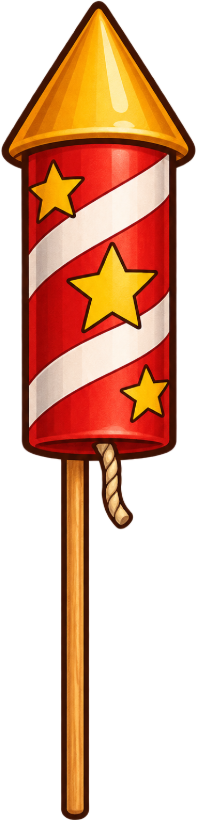
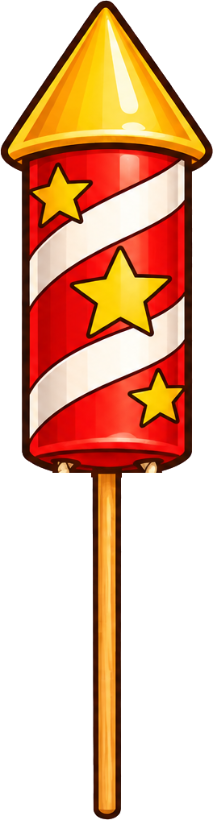
Uhr lesen: Rakete mit langer gezeichneter Zündschnur, Zahlen aussen, Stundenzeiger in Viertelstunden, Mustertext 00:00, führende Null, dezente Schritte, 1 Kind ohne Wechselzeit; Menü: Spiel-Einstellungen und Spiel wechseln (auch Mathe-Fussball)

diff --git a/spiele/uhr-lesen/spiel.js b/spiele/uhr-lesen/spiel.js
@@ -37,7 +37,7 @@ const STANDARD = {
   arten: { lesen: true, stellen: true },
   zeiten: { ganz: true, halb: true, viertel: true },
   blatt: 'alle',
-  nachmittag: false,
+  nachmittag: true,
   schritte: '6',
   minuten: '',
   wechselSek: '3',
@@ -47,7 +47,8 @@ const STANDARD = {
     { name: 'Erdmännchen', tier: 'erdmaennchen', farbe: 'blau' }
   ]
 };
-const SPEICHER_EINST = 'uhrlesen.einstellungen.v1';
+// v2: Nachmittagszeiten neu standardmässig ein – ältere gespeicherte Einstellungen werden einmalig verworfen
+const SPEICHER_EINST = 'uhrlesen.einstellungen.v2';
 const SPERRE_MS = 1500;      // Sperre nach falscher Antwort
 const LOESUNG_MS = 1300;     // Lösung zeigen nach richtiger Antwort
 const START_UHR = 15;        // die Uhr zum Stellen steht am Anfang auf 12:15
@@ -227,6 +228,8 @@ function zeigeEinstellungen() {
   $('e-schritte').value = E.schritte;
   $('e-minuten').value = E.minuten;
   $('e-wechsel').value = E.wechselSek;
+  // Wechselzeit braucht es nur, wenn zwei Kinder abwechselnd an die Tafel kommen
+  $('wechsel-zeile').classList.toggle('versteckt', E.spieler === 1);
   $('e-ton').checked = E.ton;
   $('fehler').textContent = '';
   zeigeSeite('einstellungen');
@@ -247,7 +250,7 @@ function pruefeEinstellungen() {
   if (!E.zeiten.ganz && !E.zeiten.halb && !E.zeiten.viertel) return 'Bitte mindestens eine Art Uhrzeit einschalten.';
   if (ganzzahlIn(E.schritte, 3, 10) === null) return 'Richtige bis zum Zünden: bitte eine Zahl von 3 bis 10.';
   if (E.minuten !== '' && ganzzahlIn(E.minuten, 1, 90) === null) return 'Spielzeit: bitte 1 bis 90 Minuten oder leer lassen.';
-  if (ganzzahlIn(E.wechselSek, 0, 30) === null) return 'Wechselzeit: bitte 0 bis 30 Sekunden.';
+  if (E.spieler === 2 && ganzzahlIn(E.wechselSek, 0, 30) === null) return 'Wechselzeit: bitte 0 bis 30 Sekunden.';
   return null;
 }
 
@@ -294,9 +297,17 @@ let letzterFrame = 0, letzterTick = -1;
 
 /* Bühne: 1600 × 900. Szene oben 450 hoch, unten Eingaben und Aufgabe. */
 const BODEN_Y = 420;                 // hier stehen die Tiere
-const START_X = 115, END_X = 555;    // Weg des linken Tiers (rechtes gespiegelt)
-const RAKETE = { x: 800, unten: 438, hoehe: 330 };
-const SCHNUR_ENDE_X = 655;           // Ende der Zündschnur links (rechts gespiegelt)
+const START_X = 115, END_X = 500;    // Weg des linken Tiers (rechtes gespiegelt)
+/* Rakete mit zwei langen Zündschnüren (bilder/rakete-stehend.png und bilder/zuendschnur.png,
+   beide gleich gross und genau übereinander). Die Pfade folgen der Mitte der gezeichneten Schnüre
+   (automatisch aus dem Bild gemessen), vom äusseren Ende bis unter den Raketenkörper. */
+const RAKETEN_BILD = { links: 575, oben: 145, breite: 450, hoehe: 300 };
+const FLUG_START = { x: 799.6, y: 295.2, hoehe: 298 };   // Mitte und Höhe der Rakete allein (bilder/rakete.png)
+const SCHNUR_ENDE_X = 577;           // äusseres Ende der Zündschnur links (rechts gespiegelt)
+const SCHNUR_PFADE = [
+  'M 576.5 438.3 L 578.5 438 L 580.9 437.4 L 583.5 437.1 L 586.1 436.8 L 589.4 436.8 L 592.3 437.1 L 595.2 437.4 L 598.1 437.7 L 601.4 438 L 604 438.3 L 607.2 438.6 L 610.2 438.3 L 613.1 438.3 L 616 438 L 618.9 437.7 L 621.9 437.4 L 624.5 436.8 L 627.1 436.5 L 629.8 435.9 L 632.1 435.4 L 634.8 434.8 L 637.4 434.8 L 639.7 434.2 L 642.4 433.9 L 645.3 433.6 L 647.7 433.3 L 650.6 433 L 653.5 433 L 656.2 432.7 L 659.4 433 L 662 433 L 665.2 433.3 L 668.5 433.9 L 671.4 433.9 L 674.6 434.8 L 677.8 435.1 L 680.8 435.7 L 684 436.2 L 686.6 437.1 L 689.6 437.7 L 692.5 438 L 695.1 438.6 L 697.8 438.6 L 700.7 438.9 L 703.3 438.9 L 706.3 439.2 L 709.5 438.9 L 712.4 438.6 L 715.6 438.3 L 718.6 437.7 L 721.8 437.1 L 724.7 436.2 L 727.6 435.4 L 730.3 433.9 L 732.3 432.7 L 734.1 431.8 L 736.1 431 L 737.9 429.8 L 739.9 428.6 L 741.7 427.5 L 743.2 426.3 L 744.9 424.8 L 746.7 423.6 L 747.9 422.2 L 749.3 420.7 L 751.1 419.3 L 752.2 417.8 L 753.7 416 L 754.9 414.6 L 756.3 412.8 L 757.5 411 L 758.7 409.6 L 759.9 407.8 L 761 406.1 L 762.2 404 L 763.1 402 L 764.3 400.2 L 765.1 398.4 L 766 396.4 L 767.2 394.3 L 768.1 392.6 L 768.9 390.2 L 769.8 388.2 L 770.7 386.1 L 771.3 383.8 L 772.2 381.8 L 772.8 379.7 L 773.3 377.1 L 774.2 375.3 L 774.8 373 L 775.4 370.3 L 776.3 368.3 L 776.6 365.9 L 777.1 363.6 L 777.7 361.2 L 778.3 358.6 L 778.6 356 L 779.2 353.9 L 779.5 351.3 L 780.1 348.6 L 780.4 346.3 L 780.7 343.7 L 781.3 341 L 781.5 338.4 L 781.8 335.8 L 782.1 333.1 L 782.1 330.5 L 782.4 327.8 L 782.7 325.2 L 783 322.3 L 784.2 320.8 L 785.6 319.3 L 788 318.8 L 790.9 318.8 L 793.3 318.8',
+  'M 1023.2 437.7 L 1021.2 437.7 L 1018.8 437.4 L 1015.9 437.1 L 1013.3 436.5 L 1010.4 436.8 L 1007.1 437.1 L 1004.5 437.1 L 1001.3 437.7 L 998.3 437.7 L 995.4 438.3 L 992.5 438.6 L 989.6 438.3 L 986.6 438.6 L 984 438.3 L 980.8 438 L 977.8 437.7 L 975.2 436.8 L 972.3 436.8 L 969.6 435.9 L 967 435.7 L 964.4 435.1 L 961.7 434.5 L 959.4 434.2 L 956.7 433.9 L 953.8 433.6 L 951.5 433.3 L 948.5 433 L 945.9 433 L 943 432.7 L 939.7 433 L 936.8 433.3 L 933.9 433.3 L 930.7 433.6 L 927.7 434.2 L 924.5 434.5 L 921.6 435.1 L 918.1 435.9 L 915.1 436.2 L 912.2 437.1 L 909.6 437.7 L 906.6 438.3 L 904 438.6 L 901.4 438.9 L 898.4 438.9 L 895.5 438.9 L 892.9 439.2 L 889.6 438.6 L 886.7 438.9 L 883.8 438.3 L 880.6 437.7 L 877.3 437.4 L 874.4 436.2 L 871.5 435.4 L 868.8 434.2 L 867.1 432.7 L 865 431.8 L 863 431 L 861.2 429.5 L 859.5 428.6 L 857.4 427.5 L 856 426 L 854.5 424.8 L 852.7 423.6 L 851.3 422.2 L 849.8 420.4 L 848.3 419.3 L 846.9 417.5 L 845.7 416 L 844.2 414.3 L 842.8 412.8 L 841.6 411 L 840.4 409.3 L 839.3 407.5 L 838.1 405.8 L 837.2 404 L 836 402.3 L 834.9 400.2 L 834 398.4 L 832.8 396.4 L 832.2 394.3 L 831.1 392.3 L 830.2 390.5 L 829.3 388.2 L 828.4 386.1 L 827.5 384.1 L 827 381.8 L 826.1 379.7 L 825.5 377.4 L 824.6 375.3 L 824.3 373 L 823.4 370.6 L 822.9 368.6 L 822.6 365.9 L 822 363.6 L 821.4 361.2 L 821.1 358.6 L 820.5 356.3 L 819.9 353.9 L 819.6 351.3 L 819 348.6 L 818.8 346.3 L 818.5 343.4 L 817.9 341 L 817.9 338.4 L 817.3 335.8 L 817.3 333.1 L 817 330.2 L 816.7 327.6 L 817 324.6 L 816.1 322.3 L 815.2 320.5 L 813.5 319.3 L 811.1 318.8 L 808.2 318.8 L 805.9 318.8'
+];
 const tierX = (i, k) => {
   const x = START_X + (END_X - START_X) * k / S.ziel;
   return i === 0 ? x : 1600 - x;
@@ -327,7 +338,7 @@ function starteSpiel() {
     uhr: [START_UHR, START_UHR],
     mitZeit: E.minuten !== '',
     restMs: E.minuten !== '' ? Number(E.minuten) * 60000 : 0,
-    wechselMs: Number(E.wechselSek) * 1000,
+    wechselMs: E.spieler === 1 ? 0 : Number(E.wechselSek) * 1000,   // 1 Kind: kein Countdown
     phase: 'spiel',      // spiel | loesung | wechsel | rakete | ende
     phaseRestMs: 0, weiter: null,
     rakete: null,
@@ -347,43 +358,37 @@ function starteSpiel() {
 const aktiv = i => i < S.n;
 
 /* ---------- Spielfeld aufbauen ---------- */
-function schnurPfad(i) {
-  // Von der Zündschnur am Ende (beim Tier) bis zur kleinen Schnur unten an der Rakete
-  const s = i === 0 ? 1 : -1, x = v => 800 - s * (800 - v);
-  const ende = x(SCHNUR_ENDE_X), y = BODEN_Y + 2;
-  return `M ${ende} ${y} C ${x(670)} ${y - 14}, ${x(690)} ${y + 12}, ${x(715)} ${y + 2}`
-    + ` S ${x(752)} ${y - 6}, ${x(770)} ${y - 4} C ${x(788)} ${y - 6}, ${x(795)} ${y - 40}, ${x(797)} ${RAKETE.unten - RAKETE.hoehe * 0.36}`;
-}
+function schnurPfad(i) { return SCHNUR_PFADE[i]; }
 function baueSpielfeld() {
   const b = $('buehne');
   b.classList.toggle('allein', S.n === 1);
   // Rakete
   const r = $('rakete');
-  r.style.height = RAKETE.hoehe + 'px';
-  r.style.top = (RAKETE.unten - RAKETE.hoehe) + 'px';
+  [r, $('schnur-bild')].forEach(el => {
+    el.style.left = RAKETEN_BILD.links + 'px'; el.style.top = RAKETEN_BILD.oben + 'px';
+    el.style.width = RAKETEN_BILD.breite + 'px'; el.style.height = RAKETEN_BILD.hoehe + 'px';
+  });
   r.classList.remove('weg');
 
   $('schritte').innerHTML = '';
   [0, 1].forEach(i => {
     const da = aktiv(i);
-    ['figur-', 'panel-', 'tafel-', 'schnur-', 'brand-', 'funke-'].forEach(p => $(p + i).classList.toggle('versteckt', !da || p === 'funke-'));
+    ['figur-', 'panel-', 'tafel-', 'brand-', 'funke-'].forEach(p => $(p + i).classList.toggle('versteckt', !da || p === 'funke-'));
     if (!da) return;
     const team = S.teams[i];
     b.style.setProperty(`--farbe-${i}`, farbeVon(team.farbe).wert);
     // Zündschnur
     const d = schnurPfad(i);
-    $(`schnur-${i}`).setAttribute('d', d);
     const brand = $(`brand-${i}`);
     brand.setAttribute('d', d);
     const L = brand.getTotalLength();
     brand.style.strokeDasharray = `${L} ${L}`;
     brand.style.strokeDashoffset = L;
-    // Schritte auf der Wiese: 1 … ziel
+    // Schritte auf der Wiese: dezente Punkte ohne Zahlen
     for (let k = 1; k <= S.ziel; k++) {
       const p = document.createElement('div');
       p.className = 'schritt';
       p.id = `schritt-${i}-${k}`;
-      p.textContent = k;
       p.style.left = tierX(i, k) + 'px';
       setzeFarbVariablen(p, team.farbe);
       $('schritte').appendChild(p);
@@ -451,7 +456,7 @@ function naechsteAufgabe() {
   if (lesen) {
     stelleUhr($('uhr-gross').querySelector('svg'), minutenVon(a.h, a.m));
   } else {
-    $('wecker-anzeige').innerHTML = segmentSvg(`${a.anzeigeH}:${String(a.m).padStart(2, '0')}`);
+    $('wecker-anzeige').innerHTML = segmentSvg(`${String(a.anzeigeH).padStart(2, '0')}:${String(a.m).padStart(2, '0')}`);
   }
   [0, 1].forEach(i => {
     if (!aktiv(i)) return;
@@ -507,7 +512,7 @@ function richtig(i) {
   blinke(p, 'richtig');
   if (a.art === 'lesen') {
     const l = $('loesung-text');
-    l.textContent = `${a.h}:${String(a.m).padStart(2, '0')}`;
+    l.textContent = `${String(a.h).padStart(2, '0')}:${String(a.m).padStart(2, '0')}`;
     l.classList.remove('versteckt');
   } else {
     p.classList.add('geloest');
@@ -575,7 +580,7 @@ function starteRakete(zuender, punkt) {
   zuender.forEach(i => {
     const fig = $(`figur-${i}`);
     fig.classList.add('geht');
-    fig.style.left = (i === 0 ? SCHNUR_ENDE_X - 85 : 1600 - SCHNUR_ENDE_X + 85) + 'px';
+    fig.style.left = (i === 0 ? SCHNUR_ENDE_X - 62 : 1600 - SCHNUR_ENDE_X + 62) + 'px';
     setTimeout(() => { fig.classList.remove('geht'); fig.classList.add('zuendet'); }, 450);
   });
   zeichneStand();
@@ -583,7 +588,7 @@ function starteRakete(zuender, punkt) {
 
 /* Flugbahn: hoch, Looping rechts, Looping links, dann Knall oben in der Mitte */
 const FLUG_PUNKTE = [
-  [800, 273], [800, 190], [835, 105], [960, 50], [1130, 75], [1250, 200], [1220, 350], [1070, 420],
+  [800, 295], [800, 190], [835, 105], [960, 50], [1130, 75], [1250, 200], [1220, 350], [1070, 420],
   [930, 360], [840, 250], [770, 160], [650, 85], [480, 70], [345, 170], [345, 330], [480, 420],
   [640, 380], [740, 300], [790, 250], [815, 215]
 ];
@@ -641,12 +646,12 @@ function raketeSchritt(dt) {
   if (r.ms >= R.start && r.ms < R.knall) {
     const t = (r.ms - R.start) / R.flug;
     const p = flugBahn(flugAnteil(t));
-    const groesse = 1 - 0.45 * t, hoehe = RAKETE.hoehe * groesse;
+    const groesse = 1 - 0.45 * t, hoehe = FLUG_START.hoehe * groesse;
     const el = $('flug-rakete');
     el.style.height = hoehe + 'px';
     el.style.transform = `translate(${p.x}px, ${p.y}px) translate(-50%, -50%) rotate(${(p.w * 180 / Math.PI + 90).toFixed(1)}deg)`;
     // Feuerschweif unten am Raketenkörper
-    const hx = p.x - Math.cos(p.w) * hoehe * 0.14, hy = p.y - Math.sin(p.w) * hoehe * 0.14;
+    const hx = p.x - Math.cos(p.w) * hoehe * 0.09, hy = p.y - Math.sin(p.w) * hoehe * 0.09;
     for (let k = 0; k < 5; k++) funken.push(neuerFunke(hx, hy, 'schweif', p.w));
     if (Math.random() < 0.5) funken.push(neuerFunke(hx, hy, 'rauch', p.w));
   }
@@ -787,8 +792,9 @@ function zeichneFunken(dt) {
 /* =========================================================
    Uhr stellen: Zeiger mit dem Finger ziehen
    - Minutenzeiger rastet in Viertelstunden ein (:00, :15, :30, :45)
-   - Stundenzeiger rastet bei den ganzen Stunden ein
-   - Wie bei einer echten Uhr dreht der Stundenzeiger mit
+   - Stundenzeiger rastet ebenfalls in Viertelstunden ein: er steht also wie bei einer
+     echten Uhr je nach Minuten zwischen zwei Zahlen, und der Minutenzeiger dreht mit
+   - Umgekehrt dreht beim Minutenzeiger der Stundenzeiger langsam mit
    ========================================================= */
 function winkelDiff(a, b) { const d = Math.abs(mod(a - b, 360)); return Math.min(d, 360 - d); }
 function verbindeZiehen(i, svg) {
@@ -807,7 +813,7 @@ function verbindeZiehen(i, svg) {
     const dm = winkelDiff(winkel, w.minute), dh = winkelDiff(winkel, w.stunde);
     // Welcher Zeiger? Der näher liegende; liegen beide nah beieinander, entscheidet der Abstand zur Mitte
     let zeiger = dm <= dh ? 'minute' : 'stunde';
-    if (Math.abs(dm - dh) < 25) zeiger = r > 56 ? 'minute' : 'stunde';
+    if (Math.abs(dm - dh) < 25) zeiger = r > 50 ? 'minute' : 'stunde';
     S.ziehen = { i, zeiger, roh: S.uhr[i], minute: mod(S.uhr[i], 60), id: ev.pointerId };
     try { svg.setPointerCapture(ev.pointerId); } catch (e) { /* egal */ }
     svg.classList.add('zieht', 'zieht-' + zeiger);
@@ -825,7 +831,7 @@ function verbindeZiehen(i, svg) {
       let d = winkel / 30 - mod(z.roh / 60, 12);
       d = mod(d + 6, 12) - 6;
       z.roh += d * 60;
-      neu = mod(Math.round((z.roh - z.minute) / 60) * 60 + z.minute, 720);
+      neu = mod(Math.round(z.roh / 15) * 15, 720);
     }
     if (neu !== S.uhr[i]) { S.uhr[i] = neu; TON.klick(); stelleUhr(svg, neu); }
   };
@@ -877,7 +883,9 @@ function zeichneSchritte(gehen) {
     if (!aktiv(i)) return;
     const k = S.schritte[i], fig = $(`figur-${i}`);
     fig.classList.remove('zuendet');
-    if (gehen) { fig.classList.remove('geht'); void fig.offsetWidth; fig.classList.add('geht'); clearTimeout(fig._t); fig._t = setTimeout(() => fig.classList.remove('geht'), 900); }
+    // Nur das Tier geht, dessen Schritt sich geändert hat – das andere bleibt still stehen
+    if (gehen && fig._k !== k) { fig.classList.remove('geht'); void fig.offsetWidth; fig.classList.add('geht'); clearTimeout(fig._t); fig._t = setTimeout(() => fig.classList.remove('geht'), 900); }
+    fig._k = k;
     fig.style.left = tierX(i, k) + 'px';
     fig.querySelector('.zaehler').textContent = `${k} / ${S.ziel}`;
     for (let n = 1; n <= S.ziel; n++) $(`schritt-${i}-${n}`).classList.toggle('erreicht', n <= k);

diff --git a/spiele/uhr-lesen/style.css b/spiele/uhr-lesen/style.css
@@ -89,8 +89,8 @@ body { background: #eef3fb; }
 
 /* ---------- Analoge Uhr (SVG) ---------- */
 .uhr { display: block; overflow: visible; }
-.uhr-zahl { font-family: var(--schrift); font-size: 21px; font-weight: 700; fill: #111; text-anchor: middle; dominant-baseline: central; }
-.uhr-zahl.gross { font-size: 25px; }
+.uhr-zahl { font-family: var(--schrift); font-size: 19px; font-weight: 700; fill: #111; text-anchor: middle; dominant-baseline: central; }
+.uhr-zahl.gross { font-size: 22px; }
 .uhr .zeiger { transition: transform .15s; }
 
 /* ---------- Digitalanzeige ---------- */
@@ -109,9 +109,10 @@ body { background: #eef3fb; }
   background: #2a2f6b url("bilder/hintergrund.jpg") 50% 75% / cover no-repeat;
 }
 #schnur { position: absolute; left: 0; top: 0; width: 1600px; height: 450px; z-index: 2; pointer-events: none; }
-.schnur { fill: none; stroke: #e2bf86; stroke-width: 7; stroke-linecap: round; stroke-dasharray: 10 2; filter: drop-shadow(0 0 1.2px #3e2723) drop-shadow(0 0 1px #3e2723); }
-.brand { fill: none; stroke: #262222; stroke-width: 8; stroke-linecap: round; }
-#rakete { position: absolute; left: 800px; transform: translateX(-50%); z-index: 3; transition: opacity .6s; filter: drop-shadow(0 6px 6px rgba(0,0,0,.35)); }
+.brand { fill: none; stroke: #2a2220; stroke-width: 7.5; stroke-linecap: round; stroke-linejoin: round; opacity: .92; }
+#rakete, #schnur-bild { position: absolute; z-index: 3; pointer-events: none; }
+#rakete { transition: opacity .6s; filter: drop-shadow(0 6px 6px rgba(0,0,0,.35)); }
+#schnur-bild { z-index: 1; filter: drop-shadow(0 2px 2px rgba(0,0,0,.3)); }
 #rakete.weg { opacity: 0; transition: none; }
 .funke {
   position: absolute; width: 34px; height: 34px; margin: -17px 0 0 -17px; z-index: 4; border-radius: 50%;
@@ -122,12 +123,11 @@ body { background: #eef3fb; }
 
 /* Schritte auf der Wiese */
 .schritt {
-  position: absolute; top: 424px; width: 40px; height: 22px; margin-left: -20px; z-index: 1;
-  border-radius: 50%; background: rgba(255,255,255,.75); border: 3px solid rgba(40,40,60,.55);
-  font-size: 15px; font-weight: 900; line-height: 16px; text-align: center; color: #37474f;
-  transition: background .3s, transform .3s;
+  position: absolute; top: 431px; width: 24px; height: 10px; margin-left: -12px; z-index: 1;
+  border-radius: 50%; background: rgba(255,255,255,.4); box-shadow: 0 0 0 1.5px rgba(40,50,40,.18);
+  transition: background .3s;
 }
-.schritt.erreicht { background: var(--farbe); color: var(--text); border-color: var(--farbe-dunkel); transform: scale(1.12); }
+.schritt.erreicht { background: var(--farbe); opacity: .65; box-shadow: none; }
 
 /* Tiere mit Fackel */
 .figur {
@@ -187,6 +187,7 @@ body { background: #eef3fb; }
   font-size: 46px; font-weight: 900; text-align: center; line-height: 58px; color: #1d2733; letter-spacing: 1px;
   --filz-farbe: var(--farbe); --filz-dicke: 3px;
 }
+.eingabe:empty::before { content: "00:00"; color: #d5dbe0; }
 .meldung { position: absolute; left: 16px; right: 16px; top: 74px; z-index: 2; text-align: center; font-size: 26px; font-weight: 900; color: #fff; background: var(--blau); border-radius: var(--wackel-klein); padding: 4px; opacity: 0; pointer-events: none; }
 .meldung.zeigen { animation: meldung 1.4s; }
 @keyframes meldung { 0%, 80% { opacity: 1; } 100% { opacity: 0; } }

diff --git a/spiele/uhr-lesen/index.html b/spiele/uhr-lesen/index.html
@@ -75,9 +75,9 @@
         <div class="abschnitt">
           <div class="abschnitt-titel">Uhrzeiten</div>
           <div class="knopf-raster arten-raster">
-            <button class="wahl filz" data-zeit="ganz">Ganze Stunden <small>(3:00)</small></button>
-            <button class="wahl filz" data-zeit="halb">Halbe Stunden <small>(3:30)</small></button>
-            <button class="wahl filz" data-zeit="viertel">Viertelstunden <small>(3:15, 3:45)</small></button>
+            <button class="wahl filz" data-zeit="ganz">Ganze Stunden <small>(03:00)</small></button>
+            <button class="wahl filz" data-zeit="halb">Halbe Stunden <small>(03:30)</small></button>
+            <button class="wahl filz" data-zeit="viertel">Viertelstunden <small>(03:15, 03:45)</small></button>
           </div>
         </div>
         <div class="abschnitt">
@@ -107,10 +107,12 @@
 
       <div class="karte filz">
         <h2>Ablauf</h2>
+        <div id="wechsel-zeile">
         <label class="feld-zeile">Wechselzeit (Sekunden)
           <span class="zahl-feld filz"><input type="text" id="e-wechsel" inputmode="numeric" maxlength="2"></span>
         </label>
         <p class="hinweis">Countdown zwischen den Aufgaben. 0 = sofort weiter.</p>
+        </div>
         <label class="schalter-zeile"><input type="checkbox" id="e-ton"><span class="schalter"></span>Ton</label>
       </div>
     </div>
@@ -129,14 +131,13 @@
       <div id="szene">
         <div id="schritte"></div>
         <svg id="schnur" viewBox="0 0 1600 450" aria-hidden="true">
-          <path id="schnur-0" class="schnur" d=""/>
-          <path id="schnur-1" class="schnur" d=""/>
           <path id="brand-0" class="brand" d=""/>
           <path id="brand-1" class="brand" d=""/>
         </svg>
         <div id="funke-0" class="funke versteckt"></div>
         <div id="funke-1" class="funke versteckt"></div>
-        <img id="rakete" src="bilder/rakete.png" alt="Rakete">
+        <img id="schnur-bild" src="bilder/zuendschnur.png" alt="">
+        <img id="rakete" src="bilder/rakete-stehend.png" alt="Rakete">
         <div class="figur" id="figur-0"></div>
         <div class="figur" id="figur-1"></div>
 
@@ -168,7 +169,7 @@
               <img src="bilder/wecker.png" alt="">
               <div id="wecker-anzeige"></div>
             </div>
-            <div id="stellen-hinweis">Stelle die Uhr!</div>
+            <div id="stellen-hinweis">Stelle die Zeiger richtig ein!</div>
           </div>
         </div>
         <div id="wechsel-box" class="filz versteckt">
@@ -199,7 +200,8 @@
           <h2>Pause</h2>
           <button id="btn-weiter" class="knopf gross filz">▶ Weiterspielen</button>
           <button id="btn-neustart" class="knopf hell filz">↻ Neu starten</button>
-          <button id="btn-zu-einst" class="knopf hell filz">⚙ Zu den Einstellungen</button>
+          <button id="btn-zu-einst" class="knopf hell filz">⚙ Spiel-Einstellungen</button>
+          <a id="btn-spiel-wechseln" href="../../index.html" class="knopf hell filz zur-uebersicht">🎲 Spiel wechseln</a>
         </div>
       </div>
 

diff --git a/spiele/uhr-lesen/uhr.js b/spiele/uhr-lesen/uhr.js
@@ -9,14 +9,14 @@
 /* Zifferblatt-Arten */
 const ZIFFERBLAETTER = [
   { id: 'alle',    name: 'Striche und alle Zahlen' },
-  { id: 'viertel', name: 'Nur 12, 3, 6 und 9' },
+  { id: 'viertel', name: 'Nur 3, 6, 9, 12' },
   { id: 'keine',   name: 'Nur Striche' }
 ];
 
 /* Farben und Längen der Zeiger (Radius der Uhr = 100) */
 const ZEIGER = {
-  stunde: { farbe: '#d32f2f', laenge: 50, breite: 10, hinten: 14 },   // rot, kurz und dick
-  minute: { farbe: '#1b5e20', laenge: 84, breite: 6.5, hinten: 16 }   // dunkelgrün, lang
+  stunde: { farbe: '#d32f2f', laenge: 44, breite: 10, hinten: 12 },   // rot, kurz und dick
+  minute: { farbe: '#1b5e20', laenge: 70, breite: 6.5, hinten: 14 }   // dunkelgrün, lang (bis zu den Strichen)
 };
 
 /** Winkel (Grad, 0 = oben, im Uhrzeigersinn) der beiden Zeiger für eine Zeit in Minuten (0..719) */
@@ -63,13 +63,13 @@ function uhrSvg(art, { nagel = true, klasse = '' } = {}) {
   const striche = [];
   // Nur die 12 Stundenstriche – keine Minutenstriche
   for (let i = 0; i < 12; i++) {
-    striche.push(`<line x1="0" y1="-76" x2="0" y2="-92" transform="rotate(${i * 30})" stroke="#111" stroke-width="5.5"/>`);
+    striche.push(`<line x1="0" y1="-57" x2="0" y2="-71" transform="rotate(${i * 30})" stroke="#111" stroke-width="5.5"/>`);
   }
   const zahlen = [];
   for (let z = 1; z <= 12; z++) {
     if (art === 'keine') break;
     if (art === 'viertel' && z % 3 !== 0) continue;
-    const w = z * 30 * Math.PI / 180, r = 60;
+    const w = z * 30 * Math.PI / 180, r = 83;   // Zahlen aussen, ausserhalb der Striche
     const x = (r * Math.sin(w)).toFixed(1), y = (-r * Math.cos(w)).toFixed(1);
     zahlen.push(`<text x="${x}" y="${y}" class="uhr-zahl${art === 'viertel' ? ' gross' : ''}">${z}</text>`);
   }

diff --git a/spiele/mathe-fussball/index.html b/spiele/mathe-fussball/index.html
@@ -209,7 +209,8 @@
           <h2>Pause</h2>
           <button id="btn-weiter" class="knopf gross filz">▶ Weiterspielen</button>
           <button id="btn-neustart" class="knopf hell filz">↻ Neu starten</button>
-          <button id="btn-zu-einst" class="knopf hell filz">⚙ Zu den Einstellungen</button>
+          <button id="btn-zu-einst" class="knopf hell filz">⚙ Spiel-Einstellungen</button>
+          <a id="btn-spiel-wechseln" href="../../index.html" class="knopf hell filz zur-uebersicht">🎲 Spiel wechseln</a>
         </div>
       </div>
 
